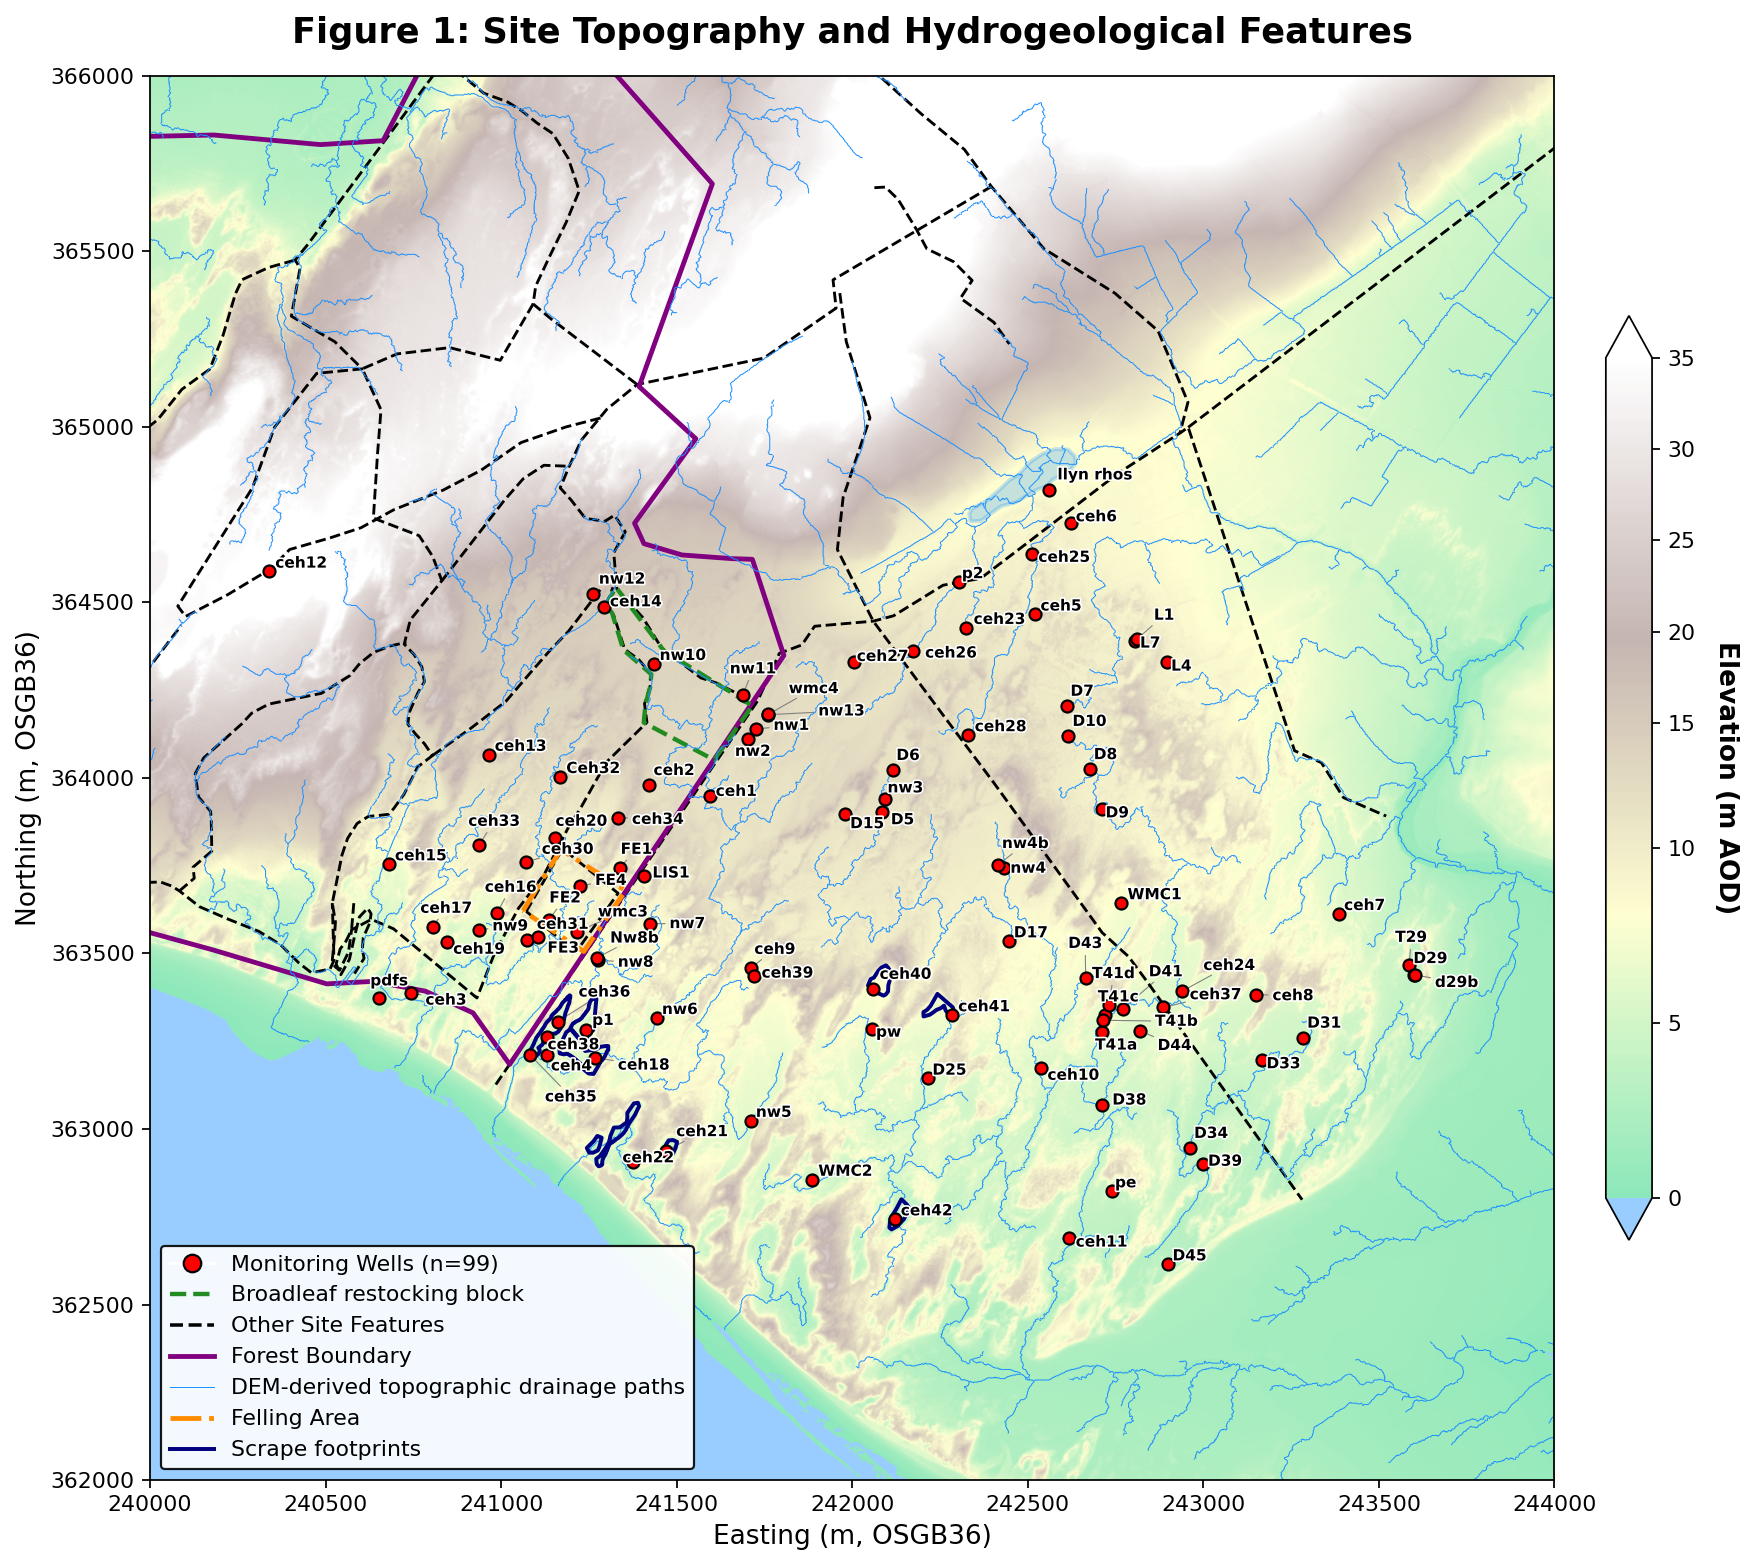
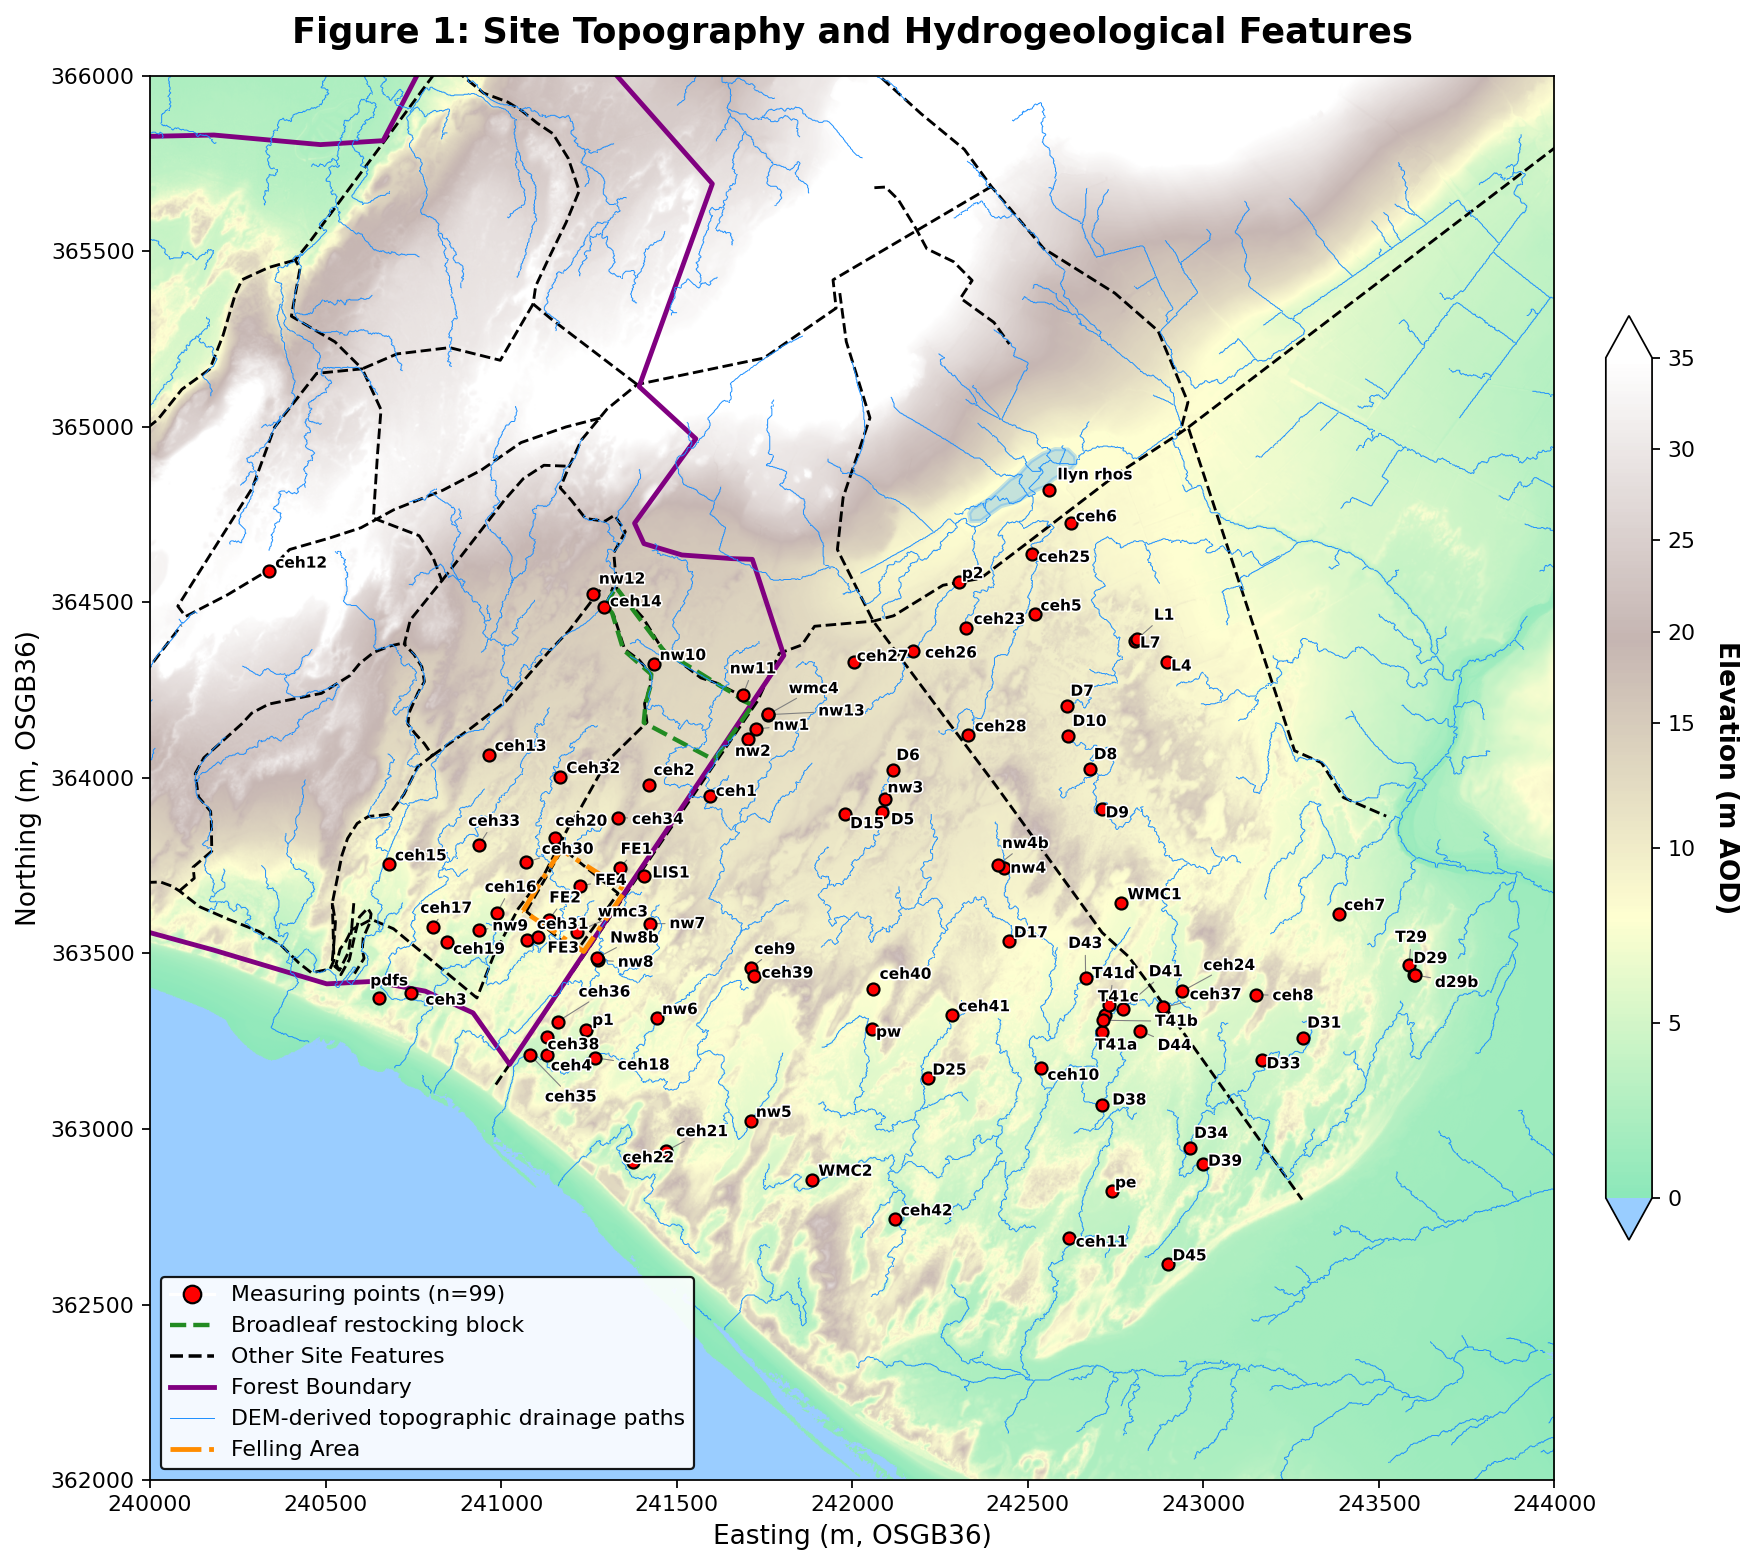
2026-09-20u: Script 12 1.7.0 — Figure 1 without the scrape outlines (Martin), legend 'Measuring points (n=99)', count emitted as site_overview_points_plotted; rendered in the cloud clone — rerun on L14 for a native render
Claude-Session: https://claude.ai/code/session_01EpgeUDxt66S79EacJHmXo5

diff --git a/src/12_figure_site_overview.py b/src/12_figure_site_overview.py
@@ -31,7 +31,15 @@ The northern break in slope (v1.4.0, D-099)
 ====================================================================================
 """
 
-__version__ = "1.6.0"  # Hollingham (2026) - 2026-09-11.
+__version__ = "1.7.0"  # Hollingham (2026) - 2026-09-20. Figure 1 no longer draws
+#   the scrape footprint outlines (Martin: "the scraped kml's need to be removed";
+#   they belong to Figure 2 and the scrape figures), the legend calls the points what
+#   they are — measuring points, since well_metadata.csv carries the lake gauge and a
+#   point with no series — and the count plotted is EMITTED
+#   (site_overview_points_plotted in 12_report_numbers.csv) because the caption said
+#   "117-point network" while the map showed 99 and the text said 89: three typed
+#   counts, none of them read from a file.
+# v1.6.0  # Hollingham (2026) - 2026-09-11.
 #   UNSILENCED (D-155): the blanket warnings.filterwarnings('ignore') is
 #   removed. It hid every DeprecationWarning and RuntimeWarning this script
 #   raised, which is the class of signal that would have flagged the fiona
@@ -205,7 +213,7 @@ def generate_dem_map():
     # 4. KML Site Features (via map_utils — includes broadleaf restock block)
     # =======================================================
     info("Adding KML site features...")
-    site_handles = add_kml_features(ax, DATA_DIR)
+    site_handles = add_kml_features(ax, DATA_DIR, include_scrapes=False)   # scrapes are Figure 2's
 
     # 5. Overlay the Monitoring Wells
     info("Plotting Monitoring Wells...")
@@ -258,7 +266,7 @@ def generate_dem_map():
     from matplotlib.lines import Line2D
     well_handle = Line2D([0], [0], marker='o', color='w', markerfacecolor='red',
                          markeredgecolor='black', markersize=8,
-                         label=f'Monitoring Wells (n={len(gdf_wells)})')
+                         label=f'Measuring points (n={len(gdf_wells)})')
     ax.legend(handles=[well_handle] + list(site_handles),
               loc='lower left', framealpha=0.9, edgecolor='black')
 
@@ -283,6 +291,7 @@ def generate_dem_map():
     render_figure(plt.gcf(), output_filename)
     print(f"  [SUCCESS] Map saved locally as {output_filename}")
     plt.close()
+    return len(gdf_wells)
 
 # ======================================================================
 # The northern break in slope (D-099)
@@ -413,6 +422,9 @@ def _break_gate(df):
     return (len(reasons) == 0), reasons, sd
 
 
+_POINTS_PLOTTED = [None]          # set by generate_dem_map(); read by _break_report_numbers()
+
+
 def _break_report_numbers(df, sd, lake):
     """The citable values. Every one read from the frame this run produced."""
     e = df["easting_m"].to_numpy()
@@ -421,6 +433,9 @@ def _break_report_numbers(df, sd, lake):
     k = int(np.argmin(np.abs(e - lake["E"])))
     lake_break_n, lake_break_z = float(nf[k]), float(z[k])
     rows = [
+        ("site_overview_points_plotted", _POINTS_PLOTTED[0], "count",
+         "measuring points drawn on Figure 1 = rows of well_metadata.csv (dipwells, the lake gauge, "
+         "and any located point without a series)"),
         ("break_n_columns", len(df), "count",
          "easting columns of the 2 m DEM resolving a break inside the window"),
         ("break_elevation_median_m", float(np.median(z)), "m AOD",
@@ -554,6 +569,6 @@ if __name__ == "__main__":
     banner("12", "Figure — Site Overview", version=__version__)
     make_all_dirs()
     phase(1, "Site overview map (report Figure 1)")
-    generate_dem_map()
+    _POINTS_PLOTTED[0] = generate_dem_map()
     measure_break_in_slope()
     done("12")

diff --git a/notes/ledgers/SCRIPT_LEDGER.md b/notes/ledgers/SCRIPT_LEDGER.md
@@ -141,7 +141,7 @@ the row's adjudication says so.
 | 11 | 11_forecasting_thresholds.py | 1.3.4 | 03_03_cluster_mechanistic_coefficients.csv, 03_cluster_peak_months.csv | 11_forecast_pflood_threshold_equations.csv, 11_forecast_*_transfer_functions.csv, 11_forecast_pflood_summary.csv | 11_forecast_02_spring_calibration.png | MS | **OK** |
 | 11b | 11b_spatial_thresholds.py | 1.11.0 | 01_locations.csv, 01_well_elevations.csv, 01_wells_clean.csv, 01_wells_clean_maod.csv, 01_wells_extended.csv, 03_master_data.csv, 03_03_cluster_mechanistic_coefficients.csv, 03_cluster_peak_months.csv, 03_regional_averages.csv, 06_pear_membership_audit_sitewide.csv, 11_forecast_winter_transfer_functions.csv, 11_forecast_summer_transfer_functions.csv, 11_forecast_pflood_threshold_equations.csv, 11_forecast_pflood_summary.csv, src/forecaster_template.html, living/wet_area_model.json (optional — the wet-area model, D-178; absent hides the panel), data/geo/warren.kml (the Sentinel coverage boundary drawn with the cell layer, D-159), DEM + Features/clearfell/site_boundary KML (helper-loaded) | 11b_03_pflood_per_well.csv, 11b_05_table10_pflood_spreadsheet.csv, 11b_06_pflood_cluster_summary.csv, forecaster.html (published to Pages by nrg_git.sh), living/forecaster_engine.json (hash-gated engine feed for the Well Logger app; written only when the engine subset moves — the subset gained drainage_datum at 1.10.0) | 11b_01…04 | R8,MS | **OK*** |
 | 11c | 11c_pflood_achievability.py | 1.2.0 | (pflood) | 11c_pflood_achievability_per_well.csv | 11c_pflood_achievability.png | R8,MS | **OK** |
-| 12 | 12_figure_site_overview.py | 1.6.0 | (KML/DEM), 01_locations.csv | 12_02_break_in_slope.csv, 12_report_numbers.csv | 12_01_dem_site_overview.png, 12_02_break_in_slope.png | MS | **OK** — numeric emitter since 1.4.0 (D-099): the northern break in slope, gated on column coverage and break-elevation sd. 12_01 is report Figure 1 and is NOT altered by the break work; the break has its own map |
+| 12 | 12_figure_site_overview.py | 1.7.0 | (KML/DEM), 01_locations.csv | 12_02_break_in_slope.csv, 12_report_numbers.csv | 12_01_dem_site_overview.png, 12_02_break_in_slope.png | MS | **OK** — numeric emitter since 1.4.0 (D-099): the northern break in slope, gated on column coverage and break-elevation sd. 12_01 is report Figure 1 and is NOT altered by the break work; the break has its own map |
 | 13 | 13_figure_experimental_design.py | 1.4.0 | (KML) | — | 13_01_experimental_setup_map.png | MS | **OK** |
 | 14 | 14_climate_projections.py | 1.5.0 | 03_regional_averages.csv, 00_02_well_network_summary.csv, 02_cluster_stats.csv | 14_annual_extremes.csv, 14_spring/summer/winter_trend_stats.csv, 14_winter_exceedance.csv | 14_climate_trajectory_spring/summer/stacked/winter_flooding.png + 14_seasonal_extremes_scatter.html | MS,SM | **OK** |
 | 14b | 14b_year_of_crossing.py | 1.2.0 | (bootstrap) | 14b_year_of_crossing.csv | 14b_year_of_crossing.png | R8,MS | **OK** |
